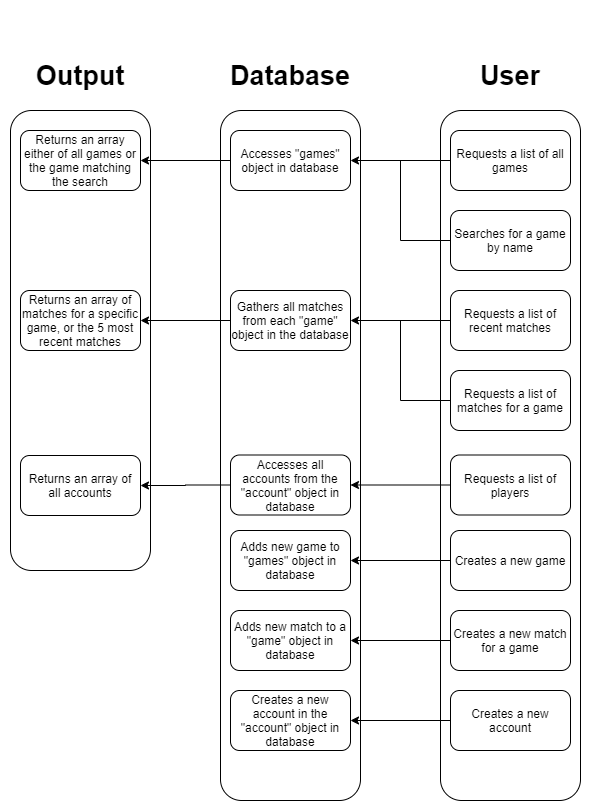
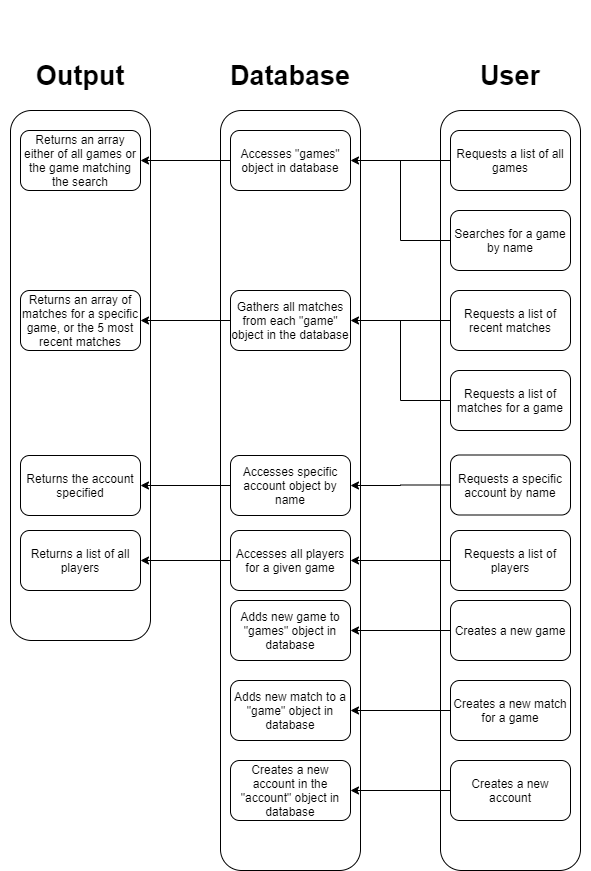
Slightly updated flowchart

diff --git a/docs/milestone2.md b/docs/milestone2.md
@@ -2,20 +2,20 @@
 
 ## Division of Labor
 - Joseph O'Leary
-    - accountcreate.js, account.js, 
-    - Division of Labor, API Flowchart
+    - accountcreate.js, account.js, homepage.js
+    - Division of Labor, API Flowchart, 
     
 - Connor Nelson
-    - some stuff I haven't checked commit logs yet
+    - gamecreate.js, game.js, match.js
 
 - Dang Le Nguyen
-    - server.js and database.js and probably more haven't checked commit logs yet
+    - server.js and database.js
+    - tourney.js, tourneycreate.js
 
 ## API Documentation
 Flowchart:
 
 ![API Documentation Flowchart](./images/flowchart.png)
-
 
 ## Screenshots
 
